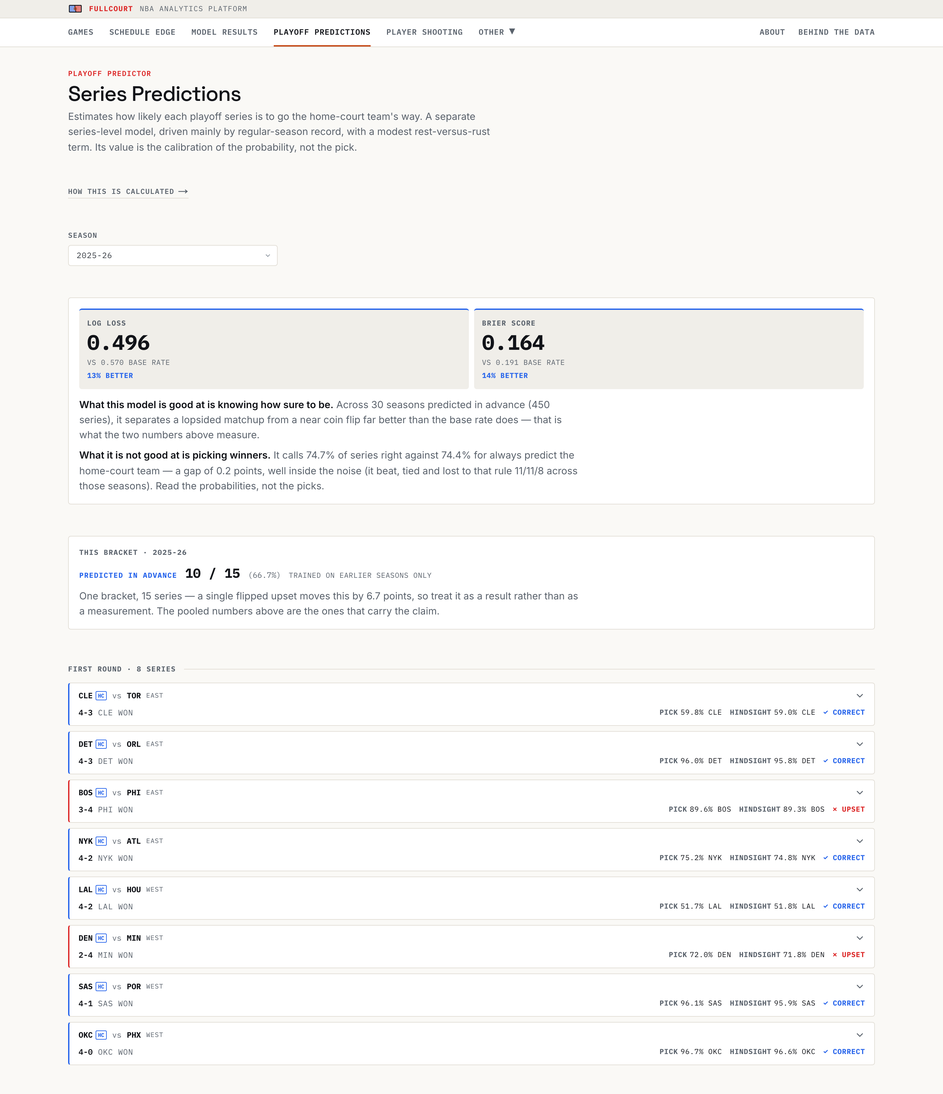
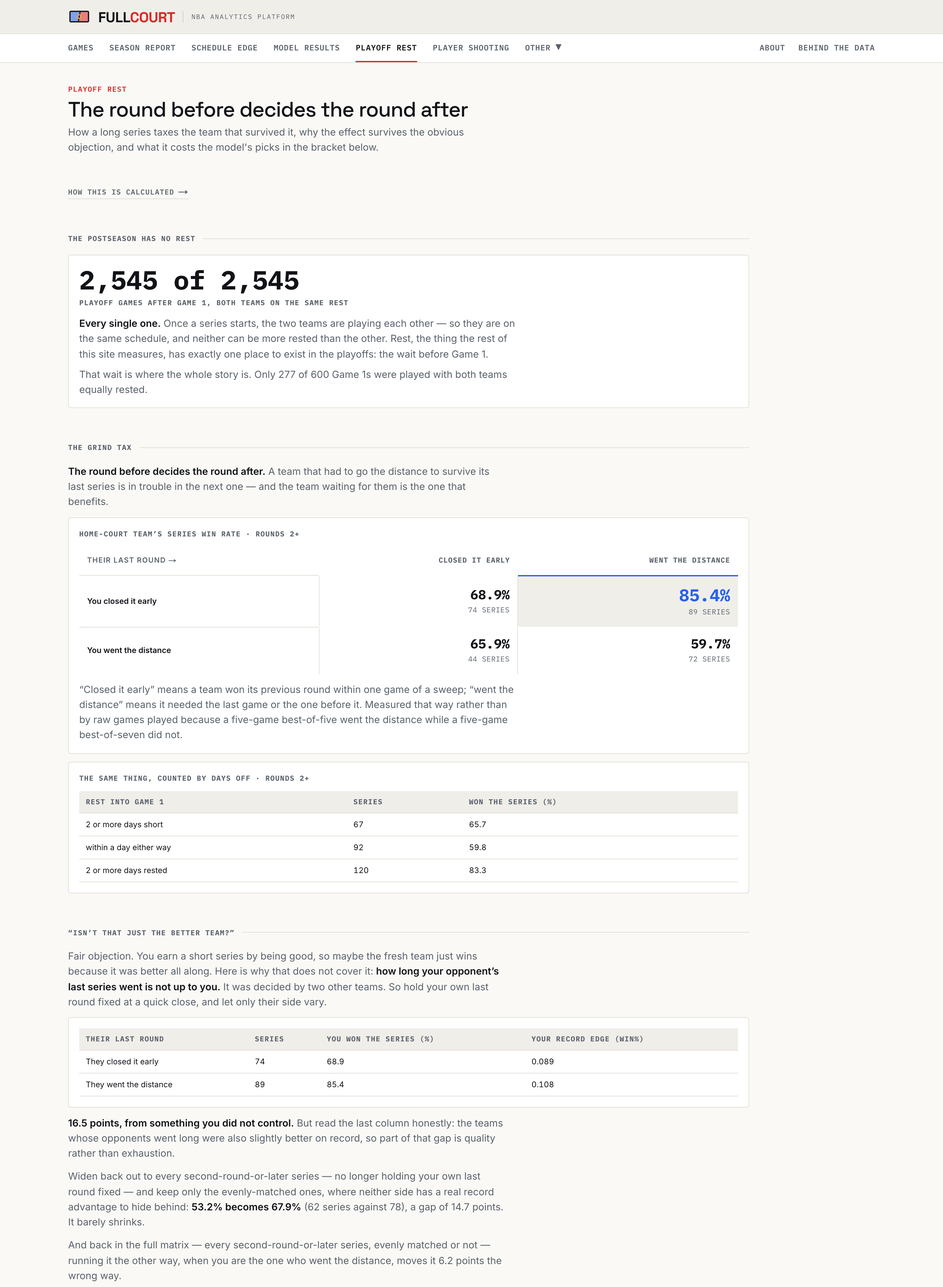
Rename the playoffs tab to PLAYOFF REST and update every surface that names it

diff --git a/src/app/behind-the-data/playoff-predictions/page.tsx b/src/app/behind-the-data/playoff-predictions/page.tsx
@@ -12,6 +12,10 @@ import {
   PLAYOFF_MODEL_CALIBRATION,
   PLAYOFF_MODEL_EVAL,
 } from "@/lib/playoff-model-metrics";
+import {
+  PLAYOFF_ROUND_SPLIT,
+  PLAYOFF_ROUNDS_TWO_PLUS_RECORD,
+} from "@/lib/playoff-rest-facts";
 import { termTdStyle, termThStyle, termThUnitStyle } from "@/lib/terminal-styles";
 
 export const metadata: Metadata = {
@@ -27,25 +31,29 @@ export const metadata: Metadata = {
  * ordering, and the reason this table is sorted this way rather than by narrative importance.
  * The site used to introduce `entry_rest_diff` first and call it the headline feature; the
  * coefficients say otherwise, so the page now says otherwise too.
+ *
+ * `logistic_grind_v2` superseded `logistic_unreg_v1` on 2026-07-31, swapping `entry_rest_diff`
+ * (raw days of rest) for `prior_grind_diff` (format-aware prior-round grind). The `v1` rows are
+ * retained in the DB — this table describes the current, `v2` fit.
  */
 const FEATURES = [
   {
     name: "win_pct_diff",
-    weight: "+0.72",
+    weight: "+0.71",
     what: "Regular-season win percentage, differenced.",
-    why: "The dominant driver by roughly two to one. This model is, first and foremost, a regular-season-record model.",
+    why: "The dominant driver — roughly 1.8 times seed_diff's weight. This model is, first and foremost, a regular-season-record model.",
   },
   {
     name: "seed_diff",
-    weight: "+0.38",
+    weight: "+0.40",
     what: "Seed gap between the two teams.",
     why: "Derived as a win-percentage rank proxy rather than read from an official bracket seed, so it can drift a line in tiebreak eras.",
   },
   {
-    name: "entry_rest_diff",
-    weight: "+0.23",
-    what: "Days of rest each side carried into game one, differenced.",
-    why: "The only rest-shaped input, and third of four by weight. Raw days off — not the site's fatigue score.",
+    name: "prior_grind_diff",
+    weight: "+0.28",
+    what: "The opponent's prior-round grind minus the home-court team's own, where grind is games played beyond a sweep (games_played − 4 for a best-of-7, − 3 otherwise).",
+    why: "The subtraction order is deliberately inverted versus the other three features so a positive coefficient still favors the home-court team. Always 0 in Round 1, since there is no prior round to have been ground down by.",
   },
   {
     name: "h2h_diff",
@@ -58,7 +66,7 @@ const FEATURES = [
 export default function PlayoffPredictionsMethodPage() {
   return (
     <BehindTheDataShell
-      eyebrow="BEHIND THE DATA · PLAYOFF PREDICTIONS"
+      eyebrow="BEHIND THE DATA · PLAYOFF REST"
       title="Playoff predictions"
       description="A separate model from the regular-season one, at series grain rather than game grain. Its edge is the honesty of the probability, not the pick it implies."
     >
@@ -196,6 +204,70 @@ export default function PlayoffPredictionsMethodPage() {
           That is the central constraint here, and it is why the model stays deliberately simple
           rather than reaching for something expressive enough to overfit — and why no amount of
           further work turns this into a strong classifier.
+        </Note>
+      </Section>
+
+      <Section label="THE ROUND SPLIT" descriptor="WHERE THE ACCURACY EDGE ACTUALLY LIVES">
+        <Prose>
+          The pooled accuracy row above hides a split, and pooling is what produced the
+          earlier &ldquo;no real edge&rdquo; reading. In Round 1, <strong>prior_grind_diff</strong>{" "}
+          is 0 for every series by construction — there is no prior round to have been ground
+          down by — so the model knows nothing the always-home-court rule does not, and loses
+          to it. From the second round on there is a grind to read, and it wins there.
+        </Prose>
+        <div className="overflow-x-auto">
+          <table className="mono w-full" style={{ fontSize: 12, borderCollapse: "collapse" }}>
+            <thead>
+              <tr>
+                <th style={termThStyle}>ROUNDS</th>
+                <th style={termThStyle}>SERIES</th>
+                <th style={termThStyle}>
+                  MODEL
+                  <span style={termThUnitStyle}>ACCURACY %</span>
+                </th>
+                <th style={termThStyle}>
+                  ALWAYS HOME COURT
+                  <span style={termThUnitStyle}>ACCURACY %</span>
+                </th>
+                <th style={termThStyle}>
+                  LOG LOSS
+                  <span style={termThUnitStyle}>MODEL VS BASELINE</span>
+                </th>
+              </tr>
+            </thead>
+            <tbody>
+              <tr>
+                <td style={{ ...termTdStyle, fontWeight: 700, whiteSpace: "nowrap" }}>Second round onward</td>
+                <td style={termTdStyle} className="tabular-nums">{PLAYOFF_ROUND_SPLIT.roundsTwoPlus.n}</td>
+                <td style={{ ...termTdStyle, color: "var(--term-blue)", fontWeight: 700 }} className="tabular-nums">
+                  {PLAYOFF_ROUND_SPLIT.roundsTwoPlus.model.toFixed(1)}
+                </td>
+                <td style={termTdStyle} className="tabular-nums">{PLAYOFF_ROUND_SPLIT.roundsTwoPlus.baseline.toFixed(1)}</td>
+                <td style={termTdStyle} className="tabular-nums">
+                  {PLAYOFF_ROUND_SPLIT.roundsTwoPlus.logLoss.toFixed(4)} vs {PLAYOFF_ROUND_SPLIT.roundsTwoPlus.baselineLogLoss.toFixed(4)}
+                </td>
+              </tr>
+              <tr style={{ borderTop: "1px solid var(--term-border)" }}>
+                <td style={{ ...termTdStyle, fontWeight: 700, whiteSpace: "nowrap" }}>First round</td>
+                <td style={termTdStyle} className="tabular-nums">{PLAYOFF_ROUND_SPLIT.roundOne.n}</td>
+                <td style={termTdStyle} className="tabular-nums">{PLAYOFF_ROUND_SPLIT.roundOne.model.toFixed(1)}</td>
+                <td style={{ ...termTdStyle, fontWeight: 700 }} className="tabular-nums">
+                  {PLAYOFF_ROUND_SPLIT.roundOne.baseline.toFixed(1)}
+                </td>
+                <td style={termTdStyle} className="tabular-nums">
+                  {PLAYOFF_ROUND_SPLIT.roundOne.logLoss.toFixed(4)} vs {PLAYOFF_ROUND_SPLIT.roundOne.baselineLogLoss.toFixed(4)}
+                </td>
+              </tr>
+            </tbody>
+          </table>
+        </div>
+        <Note>
+          {PLAYOFF_ROUND_SPLIT.roundsTwoPlus.n} series is not many, so one pooled number is not
+          proof. Season by season, from the second round on, the model beat the always-home-court
+          rule in {PLAYOFF_ROUNDS_TWO_PLUS_RECORD.win} seasons, tied it in{" "}
+          {PLAYOFF_ROUNDS_TWO_PLUS_RECORD.tie}, and lost to it in{" "}
+          {PLAYOFF_ROUNDS_TWO_PLUS_RECORD.loss} — the paired, same-brackets-same-seasons
+          comparison this claim actually rests on.
         </Note>
       </Section>
 

diff --git a/e2e/playoffs.spec.ts b/e2e/playoffs.spec.ts
@@ -1,15 +1,25 @@
 import { expect, test } from "@playwright/test";
 
-test.describe("Playoffs page", () => {
+test.describe("Playoff Rest page", () => {
   test("renders the terminal heading and eyebrow label", async ({ page }) => {
     await page.goto("/playoffs");
 
-    // Heading + eyebrow render server-side in the page wrapper, independent
-    // of PlayoffsContentLazy — no need to wait on lazy/data-dependent content.
+    // Heading + eyebrow render server-side in the page wrapper, independent of
+    // PlayoffsContentLazy — no need to wait on lazy/data-dependent content.
     await expect(
-      page.getByRole("heading", { name: "Series Predictions" })
+      page.getByRole("heading", { name: "The round before decides the round after" })
     ).toBeVisible();
 
-    await expect(page.getByText("PLAYOFF PREDICTOR")).toBeVisible();
+    await expect(page.getByText("PLAYOFF REST", { exact: true }).first()).toBeVisible();
+  });
+
+  test("leads with the argument, not the bracket", async ({ page }) => {
+    await page.goto("/playoffs");
+
+    // Sections A-D are server-rendered constants, so they are present without any DB round
+    // trip. This is what makes the page useful when the API is slow or empty.
+    await expect(page.getByText("THE POSTSEASON HAS NO REST")).toBeVisible();
+    await expect(page.getByText("THE GRIND TAX")).toBeVisible();
+    await expect(page.getByText("WHAT THE MODEL DOES WITH IT")).toBeVisible();
   });
 });

diff --git a/e2e/onboarding.spec.ts b/e2e/onboarding.spec.ts
@@ -19,7 +19,7 @@ test.describe("First-visit guide", () => {
     await expect(guide.getByRole("link", { name: /^GAMES\b/ })).toBeVisible();
     await expect(guide.getByRole("link", { name: /^SCHEDULE EDGE\b/ })).toBeVisible();
     await expect(guide.getByRole("link", { name: /^MODEL RESULTS\b/ })).toBeVisible();
-    await expect(guide.getByRole("link", { name: /^PLAYOFF PREDICTIONS\b/ })).toBeVisible();
+    await expect(guide.getByRole("link", { name: /^PLAYOFF REST\b/ })).toBeVisible();
     await expect(guide.getByRole("link", { name: /^SHOT VALUE\b/ })).toBeVisible();
     await expect(
       guide.getByText(
@@ -38,7 +38,7 @@ test.describe("First-visit guide", () => {
     ).toBeVisible();
     await expect(
       guide.getByText(
-        "Compare series win probabilities from FullCourt's separate playoff model.",
+        "See what surviving a long series costs a team in the round that follows.",
       ),
     ).toBeVisible();
     await expect(

diff --git a/src/lib/primary-navigation.ts b/src/lib/primary-navigation.ts
@@ -35,9 +35,14 @@ export const DIRECT_NAV_ITEMS = [
   },
   {
     href: "/playoffs",
-    label: "PLAYOFF PREDICTIONS",
+    // Not "PLAYOFF EDGE": `edge` is the qualifier that makes SCHEDULE EDGE legible as something
+    // other than a game list, and a second EDGE tab stops it qualifying. Not "PLAYOFF EFFECT":
+    // REFEREE EFFECT means the effect referees have, so by that pattern this would read as the
+    // effect the playoffs have — backwards, since the page is about the effect of rest inside
+    // them. "REST" is the site's own word and the page is the postseason answer to it.
+    label: "PLAYOFF REST",
     guideDescription:
-      "Compare series win probabilities from FullCourt's separate playoff model.",
+      "See what surviving a long series costs a team in the round that follows.",
   },
   {
     href: "/shooting",

diff --git a/e2e/behind-the-data.spec.ts b/e2e/behind-the-data.spec.ts
@@ -29,7 +29,7 @@ test.describe("Behind the Data", () => {
     for (const label of [
       "REST ADVANTAGE",
       "SCHEDULE EDGE",
-      "PLAYOFF PREDICTIONS",
+      "PLAYOFF REST",
       "PLAYER SHOOTING",
       "SHOT VALUE",
       "DATA & LIMITS",

diff --git a/src/lib/behind-the-data-sections.ts b/src/lib/behind-the-data-sections.ts
@@ -32,7 +32,7 @@ export const BEHIND_THE_DATA_SECTIONS = [
   },
   {
     href: "/behind-the-data/playoff-predictions",
-    label: "PLAYOFF PREDICTIONS",
+    label: "PLAYOFF REST",
     title: "Playoff predictions",
     surfaceHref: "/playoffs",
   },

diff --git a/docs/FRONTEND.md b/docs/FRONTEND.md
@@ -111,26 +111,33 @@ permanent redirect (`next.config.ts`). Only the route and the tab went — `/api
 the page and `/` render the same object (games carrying a rest edge) under different filters,
 and three of the five labels would otherwise have ended in "EDGES".
 
-### `/playoffs` — Playoff Predictor (`src/app/playoffs/page.tsx`)
+### `/playoffs` — Playoff Predictor, tab renamed PLAYOFF REST (`src/app/playoffs/page.tsx`)
 
-Server wrapper: header (`PLAYOFF PREDICTOR` eyebrow in red + `<h1>Series Predictions</h1>` +
-a descriptor naming it a separate, record-driven series model whose value is calibration rather
-than the pick) then `<PlayoffsContentLazy />`. The lazy client component
-(`playoffs-content.tsx`) owns a season `<select>`, a `ModelResultHeader`, a `SeasonScoreboard`,
-and per-round `SeriesCard` lists — each an expandable row (home-court team, opponent, series
-score, `PICK`/`HINDSIGHT` win-probability inline, a correctness badge) that reveals a
-`SeriesFeatureGrid` (seed diff / win% diff / entry rest diff / h2h diff) on click.
+Server wrapper: `<PageHeader>` (`PLAYOFF REST` eyebrow + `<h1>The round before decides the round
+after</h1>` + a descriptor naming the argument), then two siblings — `<PlayoffRestArgument />`
+(Sections A–D, `playoff-rest-sections.tsx`) followed by `<PlayoffsContentLazy />` (the bracket).
+Siblings rather than one wrapping the other, so putting the bracket first is a swap of two lines
+in `page.tsx`, not a rewrite of either.
 
-**Repositioned 2026-07-30.** The page used to headline two accuracy tiles — walk-forward OOS
-beside full-in-sample — and describe itself as sharing the regular-season model's rest lineage.
-Both were wrong, in the same direction: accuracy is the one metric this model cannot beat a
-one-line baseline on, and the "lineage" is one raw-days feature (third of four by coefficient)
-that never imports `fatigue.ts`. The header now leads with calibration (log loss / Brier vs the
-base rate, sourced from `src/lib/playoff-model-metrics.ts`) and states the accuracy tie in the
-same card. The hindsight fit is no longer shown beside the forecast — `SeasonScoreboard` renders
-it **only** when `summary.walkForwardOos.knownWinnerGames === 0`, i.e. the earliest seasons that
-have no honest forecast at all. See the ADR-style note in `playoff-model-metrics.ts` and the
-reader-facing version at `/behind-the-data/playoff-predictions`.
+Sections A–D are a server component with no data fetching — every figure is a published
+constant from `src/lib/playoff-rest-facts.ts`, so the argument renders even if the DB is down:
+**A** `THE POSTSEASON HAS NO REST` (equal-rest game counts), **B** `THE GRIND TAX` (the
+grind-matrix table), **C** the "isn't that just the better team?" confound test with its own
+published caveat, **D** `WHAT THE MODEL DOES WITH IT` (the round-split accuracy table and the
+per-season paired record).
+
+The bracket (`playoffs-content.tsx`) owns a season `<select>`, a `ModelResultHeader`, a
+`SeasonScoreboard`, and per-round `SeriesCard` lists — each an expandable row (home-court team,
+opponent, series score, a `GrindLine` naming how both sides arrived, `PICK`/`HINDSIGHT`
+win-probability inline, a correctness badge) that reveals a `SeriesFeatureGrid` (seed diff /
+win% diff / prior grind diff / entry rest diff / h2h diff) on click.
+
+**Rebuilt argument-first, 2026-07-31.** The page used to open on the bracket and headline two
+calibration tiles (log loss / Brier vs the base rate, sourced from
+`src/lib/playoff-model-metrics.ts`). It now leads with Sections A–D so the claim reads without
+any DB round trip, and the model — retrained as `logistic_grind_v2`, swapping `entry_rest_diff`
+for `prior_grind_diff` — is supporting evidence rather than the headline. See the reader-facing
+version at `/behind-the-data/playoff-predictions`.
 
 ### `/schedule` — Schedule Disparity (`src/app/schedule/page.tsx`)
 
@@ -350,7 +357,7 @@ alone. It is style, not bias, and the copy says so.
    navigation landmarks in one row**. Left, `aria-label="Main navigation"`: the six direct tabs
    from `DIRECT_NAV_ITEMS` (`src/lib/primary-navigation.ts`) — `GAMES → /`,
    `SEASON REPORT → /season`, `SCHEDULE EDGE → /schedule`, `MODEL RESULTS → /analysis`,
-   `PLAYOFF PREDICTIONS → /playoffs`, `PLAYER SHOOTING → /shooting` — followed by the `OTHER`
+   `PLAYOFF REST → /playoffs`, `PLAYER SHOOTING → /shooting` — followed by the `OTHER`
    menu holding `SHOT VALUE → /shot-quality` and `REFEREE EFFECT → /referees`. Right,
    `ml-auto` and `aria-label="Reference"`: `ABOUT → /about` and
    `BEHIND THE DATA → /behind-the-data`. Two landmarks rather than one so the reference links

diff --git a/README.md b/README.md
@@ -55,13 +55,14 @@ the line in red.
 
 <img src="docs/screenshots/analysis.png" alt="Rest Advantage Analysis. A HOW THIS IS CALCULATED link sits under the heading. Three summary tiles read an overall win rate of 55.6% across 37,934 games, a home-rested win rate of 61.3% from 16,277 of 26,559 games, and 63.1% at a rest advantage of 5 or more across 3,854 games. Below them, win rate by rest-advantage threshold is drawn as deviation columns measured from a 50% coin flip: four blue bars rise from a zero line, growing left to right from RA at least 2 to RA at least 7, each labelled with its sample size — 19,740, 12,097, 3,854 and 938 games. A legend states that blue means the rested team beat a coin flip and red means it lost to one." width="900" />
 
-**Series Predictions — the playoff model, scored honestly.** The page leads with the only thing
-this model measurably wins at: calibration. Log loss and Brier score sit ~13-14% better than the
-base rate, while accuracy is shown alongside as having no real edge over "always pick the
-home-court team" — because publishing the first without the second would be the dishonest half of
-one result. Every series shows the probability it was called at.
+**Playoff Rest — what surviving a long series costs the round after.** The page leads with the
+argument, not the bracket: every playoff game after Game 1 is played on equal rest by
+construction, so the only rest signal left is how far each team's previous round ran. The
+home-court team's series win rate climbs from 68.9% to 85.4% depending on whether its opponent
+closed out early or went the distance, the effect survives holding a team's own result fixed, and
+the model's bracket picks below carry that gain.
 
-<img src="docs/screenshots/playoffs.png" alt="Series Predictions for 2025-26. Two tiles lead with calibration: LOG LOSS 0.496 against a 0.570 base rate, 13% better, and BRIER SCORE 0.164 against 0.191, 14% better. Beneath them two statements — that what the model is good at is knowing how sure to be, across 30 seasons predicted in advance covering 450 series, and that what it is not good at is picking winners, calling 74.7% of series right against 74.4% for always predicting the home-court team, a gap of 0.2 points well inside the noise, having beaten, tied and lost to that rule 11/11/8; it closes by saying to read the probabilities, not the picks. A second card, THIS BRACKET 2025-26, reads PREDICTED IN ADVANCE 10 / 15 (66.7%), trained on earlier seasons only, noting one flipped upset moves it 6.7 points. Below, the first round's 8 series each show a result, a PICK probability and a HINDSIGHT probability: Cleveland beat Toronto 4-3, pick 59.8% CLE, CORRECT; Detroit beat Orlando 4-3, pick 96.0% DET, CORRECT; Philadelphia beat Boston 3-4 against an 89.6% BOS pick, UPSET; New York beat Atlanta 4-2, pick 75.2% NYK, CORRECT; the Lakers beat Houston 4-2, pick 51.7% LAL, CORRECT; Minnesota beat Denver 2-4 against a 72.0% DEN pick, UPSET; San Antonio beat Portland 4-1, pick 96.1% SAS, CORRECT; and Oklahoma City swept Phoenix 4-0, pick 96.7% OKC, CORRECT." width="900" />
+<img src="docs/screenshots/playoffs.png" alt="Playoff Rest for 2025-26. The header reads PLAYOFF REST and The round before decides the round after. THE POSTSEASON HAS NO REST states 2,545 of 2,545 playoff games after Game 1 were played on equal rest, with only 277 of 600 Game 1s equally rested. THE GRIND TAX gives the home-court team's series win rate, rounds 2+, by both teams' prior-round length: 68.9% (74 series) when both closed early, 85.4% (89 series) when only the opponent went the distance, 65.9% (44 series) when only the home-court team did, and 59.7% (72 series) when both did — plus the same split counted by rest days into Game 1: 65.7% (67 series) on 2+ days short, 59.8% (92) within a day either way, 83.3% (120) on 2+ days rested. A section titled 'Isn't that just the better team?' answers the confound: holding a team's own prior round fixed at a quick close, its win rate is 68.9% when the opponent closed early versus 85.4% when the opponent went the distance, a 16.5-point gap from something outside the team's control; narrowed to evenly-matched series only, 53.2% becomes 67.9%, still a 14.7-point gap; and reversed, being the team that went the distance costs 6.2 points the other way." width="900" />
 
 **Player Shooting — a lookup, not a ranking.** Every player's eFG% on zero rest beside three or
 more days off, with the split's sample size shown on both sides so a thin season reads as thin.

diff --git a/docs/DATABASE.md b/docs/DATABASE.md
@@ -230,8 +230,9 @@ feature pass (`ml/compute_series_features.py`, the four `*_diff` columns below),
 | `opponent_wins` (`opponentWins`) | smallint | yes | — | games won; null until resolved |
 | `seed_diff` (`seedDiff`) | decimal | yes | — | regular-season Win%-rank proxy, `(opponent − home-court)`; populated for all 600 rows |
 | `win_pct_diff` (`winPctDiff`) | decimal | yes | — | dominant model feature (see `playoff_series_predictions` below); populated for all 600 rows |
-| `entry_rest_diff` (`entryRestDiff`) | decimal | yes | — | headline rust-vs-rest signal; populated for all 600 rows |
+| `entry_rest_diff` (`entryRestDiff`) | decimal | yes | — | raw rust-vs-rest signal (days of rest, differenced); populated for all 600 rows but no longer fed to the model — superseded by `prior_grind_diff` (2026-07-31) |
 | `h2h_diff` (`h2hDiff`) | decimal | yes | — | populated for all 600 rows |
+| `prior_grind_diff` (`priorGrindDiff`) | decimal | yes | — | `(opponent − home-court)` prior-round grind, where grind = `games_played − (4 if is_best_of_7 else 3)`; sign is **inverted** vs the other `*_diff` columns so positive still favors home court. `0` for every Round 1 row (no prior round exists); `NULL` only when a prior series could not be resolved at all. Added by migration `0012` (2026-07-31), replacing `entry_rest_diff` in the model. |
 | `external_series_key` (`externalSeriesKey`) | varchar | no | — | **unique**; deterministic `"{season}_{abbrA}-{abbrB}"` for idempotent upserts |
 | `computed_at` (`computedAt`) | timestamp | no | `now()` | last build time |
 
@@ -414,8 +415,9 @@ grants for **two** tables, `shot_grid` and `shot_value_surface`, in one file).
 | `0009_fatigue_scores_distinct_on_index.sql` | Add the live `(game_id, team_id, computed_at DESC)` index used by latest-fatigue reads. Hand-applied with `CREATE INDEX CONCURRENTLY`; no schema.ts change. |
 | `0010_rename_time_zone_displacement.sql` | Rename `fatigue_scores.has_coast_to_coast_road_swing` → `has_time_zone_displacement`. |
 | `0011_games_tip_off_neutral_site.sql` | Add `tip_off_utc`, `neutral_site`, `neutral_venue_city` to `games`. Applied 2026-07-30. See ADR 0003 for the era limits of the ESPN source. |
+| `0012_playoff_series_prior_grind.sql` | Add `playoff_series.prior_grind_diff` (nullable numeric). Standalone SQL; RLS and grants already cover the table. Applied 2026-07-31. |
 
-The **next migration number is `0012`**. `drizzle.config.ts` restricts introspection to
+The **next migration number is `0013`**. `drizzle.config.ts` restricts introspection to
 `schemaFilter: ["public"]`,
 `tablesFilter: ["teams","games","fatigue_scores","predictions","playoff_series"]` (unchanged
 by `0007`/`0008` — see the Conventions note above), and `extensionsFilters: ["postgis"]` (the

diff --git a/docs/GLOSSARY.md b/docs/GLOSSARY.md
@@ -66,7 +66,7 @@ grows — it does not rank those surfaces below the direct tabs.
 | GAMES | `/` | Games | Today's Games — the season selector reaches 1985-86, so no time word stays true |
 | SCHEDULE EDGE | `/schedule` | Schedule Disparity | Schedule — that means a game list everywhere else, which is GAMES |
 | MODEL RESULTS | `/analysis` | Rest Advantage Analysis | Analysis (every page is analysis); Historical Data (GAMES already browses history, and "data" promises a dump) |
-| PLAYOFF PREDICTIONS | `/playoffs` | Series Predictions | Playoff Odds — mainstream that means *making* the playoffs, not winning a series |
+| PLAYOFF REST | `/playoffs` | The round before decides the round after | Playoff Odds — mainstream that means *making* the playoffs, not winning a series; PLAYOFF EDGE — `edge` is the qualifier that makes SCHEDULE EDGE legible as something other than a game list, and a second EDGE tab stops it qualifying |
 | PLAYER SHOOTING | `/shooting` | Shooting by Rest | Shooting — on Basketball-Reference and NBA.com that means shot *location*, which is SHOT VALUE; Player Rest / Rest Splits — the rest tab is SCHEDULE EDGE, and an internal collision misroutes worse than an external one; Splits — ESPN's word for exactly this page, but jargon for a casual fan and silent about the measure |
 | SHOT VALUE *(OTHER)* | `/shot-quality` | Expected Shot Value | Shot Charts — mainstream that means a player's makes/misses by spot |
 | REFEREE EFFECT *(OTHER)* | `/referees` | Coming soon | Referee Bias — the page was named for the question, not a conclusion; it is a placeholder since 2026-07-30 because the home-whistle finding sat inside noise |

diff --git a/docs/API.md b/docs/API.md
@@ -185,9 +185,11 @@ row counts).
   - `rounds: PlayoffRoundGroup[]` — series grouped by `round` (ascending), each with a
     `roundLabel` (`"First Round"` / `"Conference Semifinals"` / `"Conference Finals"` /
     `"Finals"`) and the series list (`PlayoffSeriesWithPredictions[]`: teams, `isBestOf7`,
-    win counts, the four raw features `seedDiff`/`winPctDiff`/`entryRestDiff`/`h2hDiff`, and
-    a `predictions` object with `fullInsample` / `walkForwardOos` — either may be `null` for
-    a given series).
+    win counts, the four raw features `seedDiff`/`winPctDiff`/`entryRestDiff`/`h2hDiff`, plus
+    `priorGrindDiff` (the model's current feature — `entryRestDiff` is retained but no longer
+    fed to it) and `homeCourtPriorGames`/`opponentPriorGames` (each side's prior-round game
+    count, `null` in Round 1), and a `predictions` object with `fullInsample` /
+    `walkForwardOos` — either may be `null` for a given series).
   - `summary: { fullInsample, walkForwardOos }` — each a `PlayoffMethodSummary`
     (`knownWinnerGames`, `predictedCorrect`, `accuracy` 0–100) computed only over series that
     have both a known winner and a non-null prediction for that method. **Per-season and

diff --git a/docs/ARCHITECTURE.md b/docs/ARCHITECTURE.md
@@ -253,7 +253,7 @@ the row change → connected clients update in place.
      markup; the seven `*-lazy` modules each restated `dynamic(..., { ssr: false })` around the
      one part that differs.
 - **Nav renamed to plain-noun tabs (2026-07-27):** `GAMES`, `SCHEDULE EDGE`,
-  `MODEL RESULTS`, `PLAYOFF PREDICTIONS`, `SHOT VALUE` — joined by `PLAYER SHOOTING` when
+  `MODEL RESULTS`, `PLAYOFF REST`, `SHOT VALUE` — joined by `PLAYER SHOOTING` when
   `/shooting` shipped (2026-07-28). That one is qualified rather than bare `SHOOTING` because
   on Basketball-Reference and NBA.com that word already means shot *location*, which is
   `SHOT VALUE`. It shipped as `REST & SHOOTING`, on the narrower reasoning that the two would
